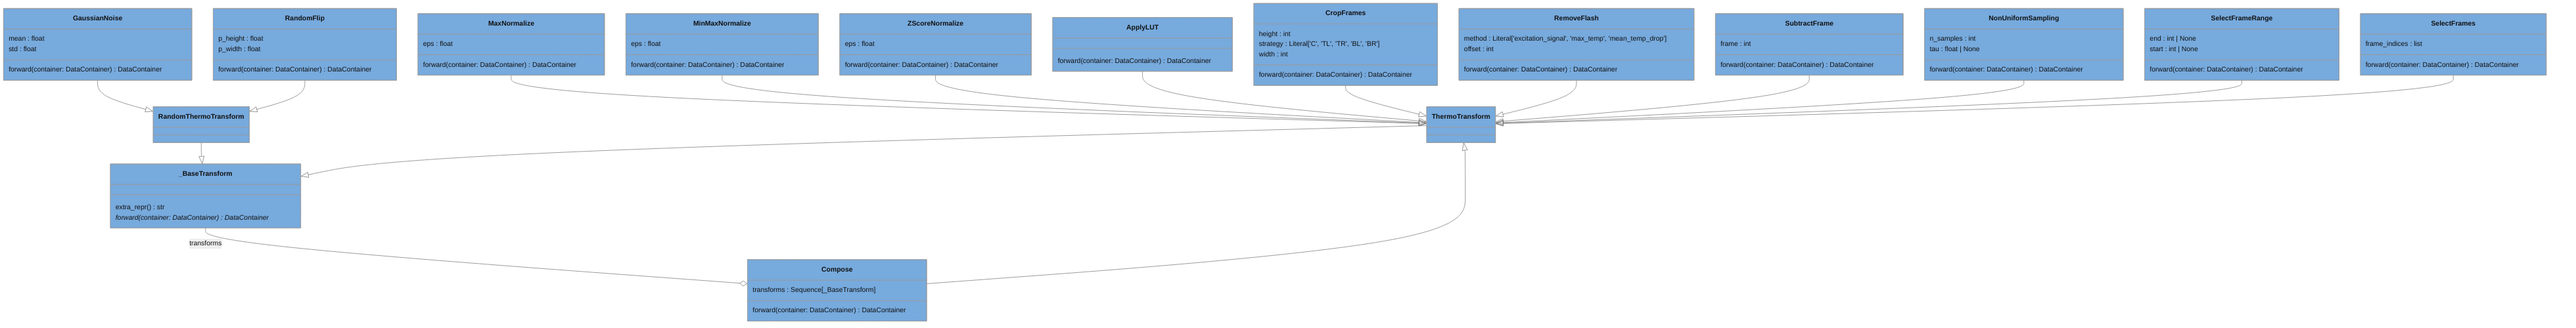
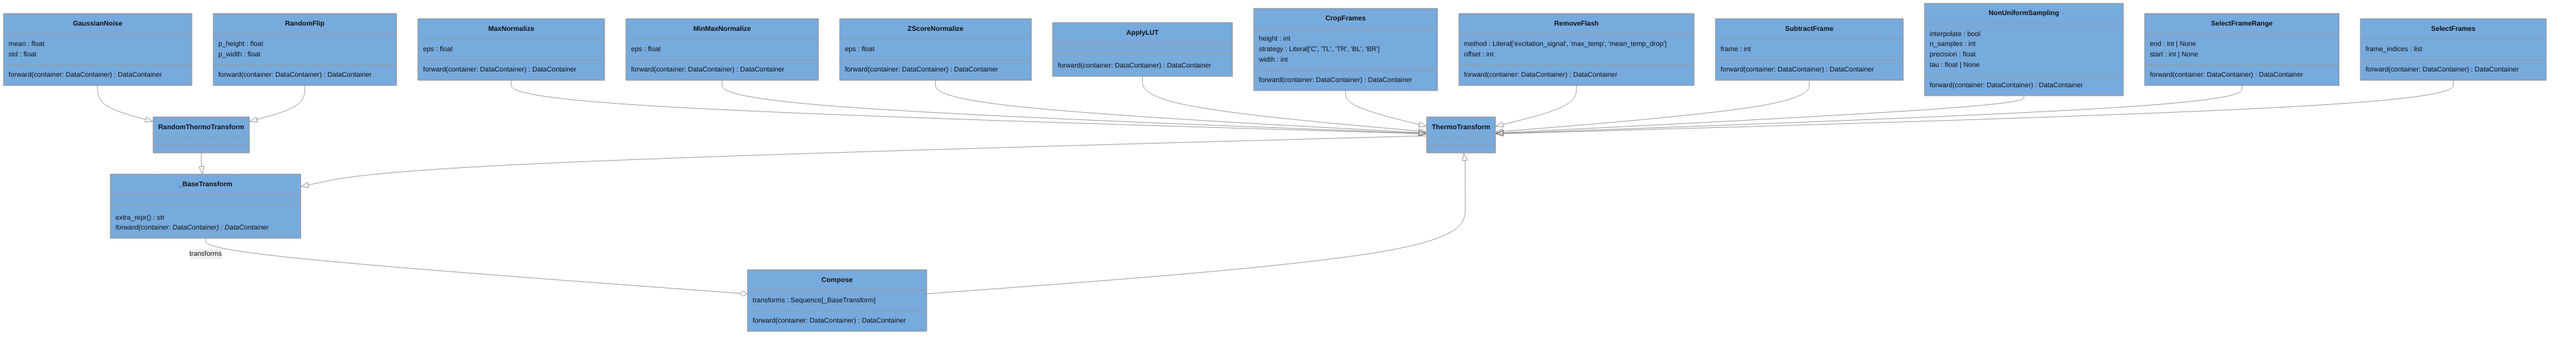
Add the option for efficient interpolation of the data in NonUniformSampling transform (#176)
* First step to supporte interpolation

* implement a vectorized version of the interpolation

* Fix pylint error

* Update docstring

* Remove nested interpolation function

* Update mermaid diagrams

---------

diff --git a/src/pythermondt/transforms/sampling.py b/src/pythermondt/transforms/sampling.py
@@ -110,7 +110,7 @@ class NonUniformSampling(ThermoTransform):
     thermography data using the virtual wave concept: https://doi.org/10.1016/j.ndteint.2024.103200
     """
 
-    def __init__(self, n_samples: int, tau: float | None = None, precision: float = 1e-2):
+    def __init__(self, n_samples: int, tau: float | None = None, interpolate: bool = True, precision: float = 1e-2):
         """Implement a non-uniform sampling strategy for the data container.
 
         The implementation is based on the following paper:
@@ -120,18 +120,32 @@ class NonUniformSampling(ThermoTransform):
         Args:
             n_samples (int): Number of samples to select from the original data.
             tau (float, optional): Time shift parameter that controls the non-uniform sampling distribution.
-                          If None, will be approxmated automatically using binary search to satisfy
-                          the minimum time step constraint from Equation (25) of the paper. Default is None.
+                If None, will be approxmated automatically using binary search to satisfy the minimum time step
+                constraint from Equation (25) of the paper. Default is None.
+            interpolate (bool, optional): Whether to apply interpolation after non-uniform sampling. If True,
+                the downsampled data will be interpolated to match the exact time steps calculated according to
+                Equation (6) of the paper. If False, the transform will try to match the nearest time steps in the
+                original data using torch.searchsorted. Defaults to True.
             precision (float, optional): Precision used for the binary search. Default is 1e-2, which is sufficient for
                 most applications.
         """
         super().__init__()
         self.n_samples = n_samples
         self.tau = tau
+        self.interpolate = interpolate
         self.precision = precision
 
     def _calculate_tau(self, t_end: float, dt_min: float, n_t: int) -> float:
-        """Calculate minimum tau according to equation (25) using binary search."""
+        """Find the minimum tau that satisfies equation (25) using binary search.
+
+        Args:
+            t_end (float): End time of the original data.
+            dt_min (float): Minimum time step required.
+            n_t (int): Number of desired time steps after downsampling.
+
+        Returns:
+            float: The minimum tau value that satisfies the constraint.
+        """
         low = dt_min  # use dt_min as lower bound
         high = t_end  # use t_end as a upper bond because tau >= t_end makes no sense
 
@@ -158,6 +172,30 @@ class NonUniformSampling(ThermoTransform):
 
         return tau
 
+    def _interp_vectorized(self, x_new, x_old, y_old_batch):
+        """Vectorized 1D interpolation for batched data.
+
+        Args:
+            x_new: Target interpolation points, shape (n_new,)
+            x_old: Original sample points, shape (n_old,)
+            y_old_batch: Original values, shape (batch_size, n_old)
+
+        Returns:
+            Interpolated values, shape (batch_size, n_new)
+        """
+        # Find indices (same for all batch elements)
+        indices = torch.searchsorted(x_old, x_new, right=False)
+        indices = torch.clamp(indices, 1, len(x_old) - 1)
+
+        # Get surrounding points
+        x0, x1 = x_old[indices - 1], x_old[indices]
+        y0 = y_old_batch[:, indices - 1]  # Shape: (batch_size, n_new)
+        y1 = y_old_batch[:, indices]  # Shape: (batch_size, n_new)
+
+        # Vectorized interpolation
+        t = (x_new - x0) / (x1 - x0)  # Shape: (n_new,)
+        return y0 + t * (y1 - y0)  # Broadcasting handles batch dimension
+
     def forward(self, container: DataContainer) -> DataContainer:
         # Extract Datasets
         tdata, domain_values, excitation_signal = container.get_datasets(
@@ -175,7 +213,6 @@ class NonUniformSampling(ThermoTransform):
             )
 
         # Calculate tau using binary search if not provided
-        n_samples_original = len(domain_values)
         t_end = domain_values[-1]
         dt_min = domain_values[1] - domain_values[0]  # Assuming the input data is uniformly sampled
         if not self.tau:
@@ -187,16 +224,28 @@ class NonUniformSampling(ThermoTransform):
         k = torch.arange(self.n_samples)
         t_k = tau * ((t_end / tau + 1) ** (k / (self.n_samples - 1)) - 1)
 
-        # Find the indices of the closest time steps in the domain values
-        indices = torch.searchsorted(domain_values, t_k)
+        if self.interpolate:
+            # Interpolate signals
+            # Excitation signal
+            excitation_signal = self._interp_vectorized(t_k, domain_values, excitation_signal.unsqueeze(0)).squeeze(0)
 
-        # Clamp indices to the valid range
-        indices = torch.clamp(indices, 0, n_samples_original - 1)
+            # Interpolate tdata (vectorized across all spatial locations)
+            h, w, _ = tdata.shape
+            tdata_flat = tdata.view(h * w, -1)  # Shape: (h*w, time)
+            tdata = self._interp_vectorized(t_k, domain_values, tdata_flat).view(h, w, self.n_samples)
 
-        # Select the frames according to the indices
-        tdata = tdata[..., indices]
-        domain_values = domain_values[indices]
-        excitation_signal = excitation_signal[indices]
+            domain_values = t_k  # Use exact exponential times as new domain values
+        else:
+            # Find the indices of the closest time steps in the domain values
+            indices = torch.searchsorted(domain_values, t_k)
+
+            # Clamp indices to the valid range
+            indices = torch.clamp(indices, 0, len(domain_values) - 1)
+
+            # Select the frames according to the indices
+            tdata = tdata[..., indices]
+            domain_values = domain_values[indices]
+            excitation_signal = excitation_signal[indices]
 
         # Update Container and return
         container.update_datasets(
